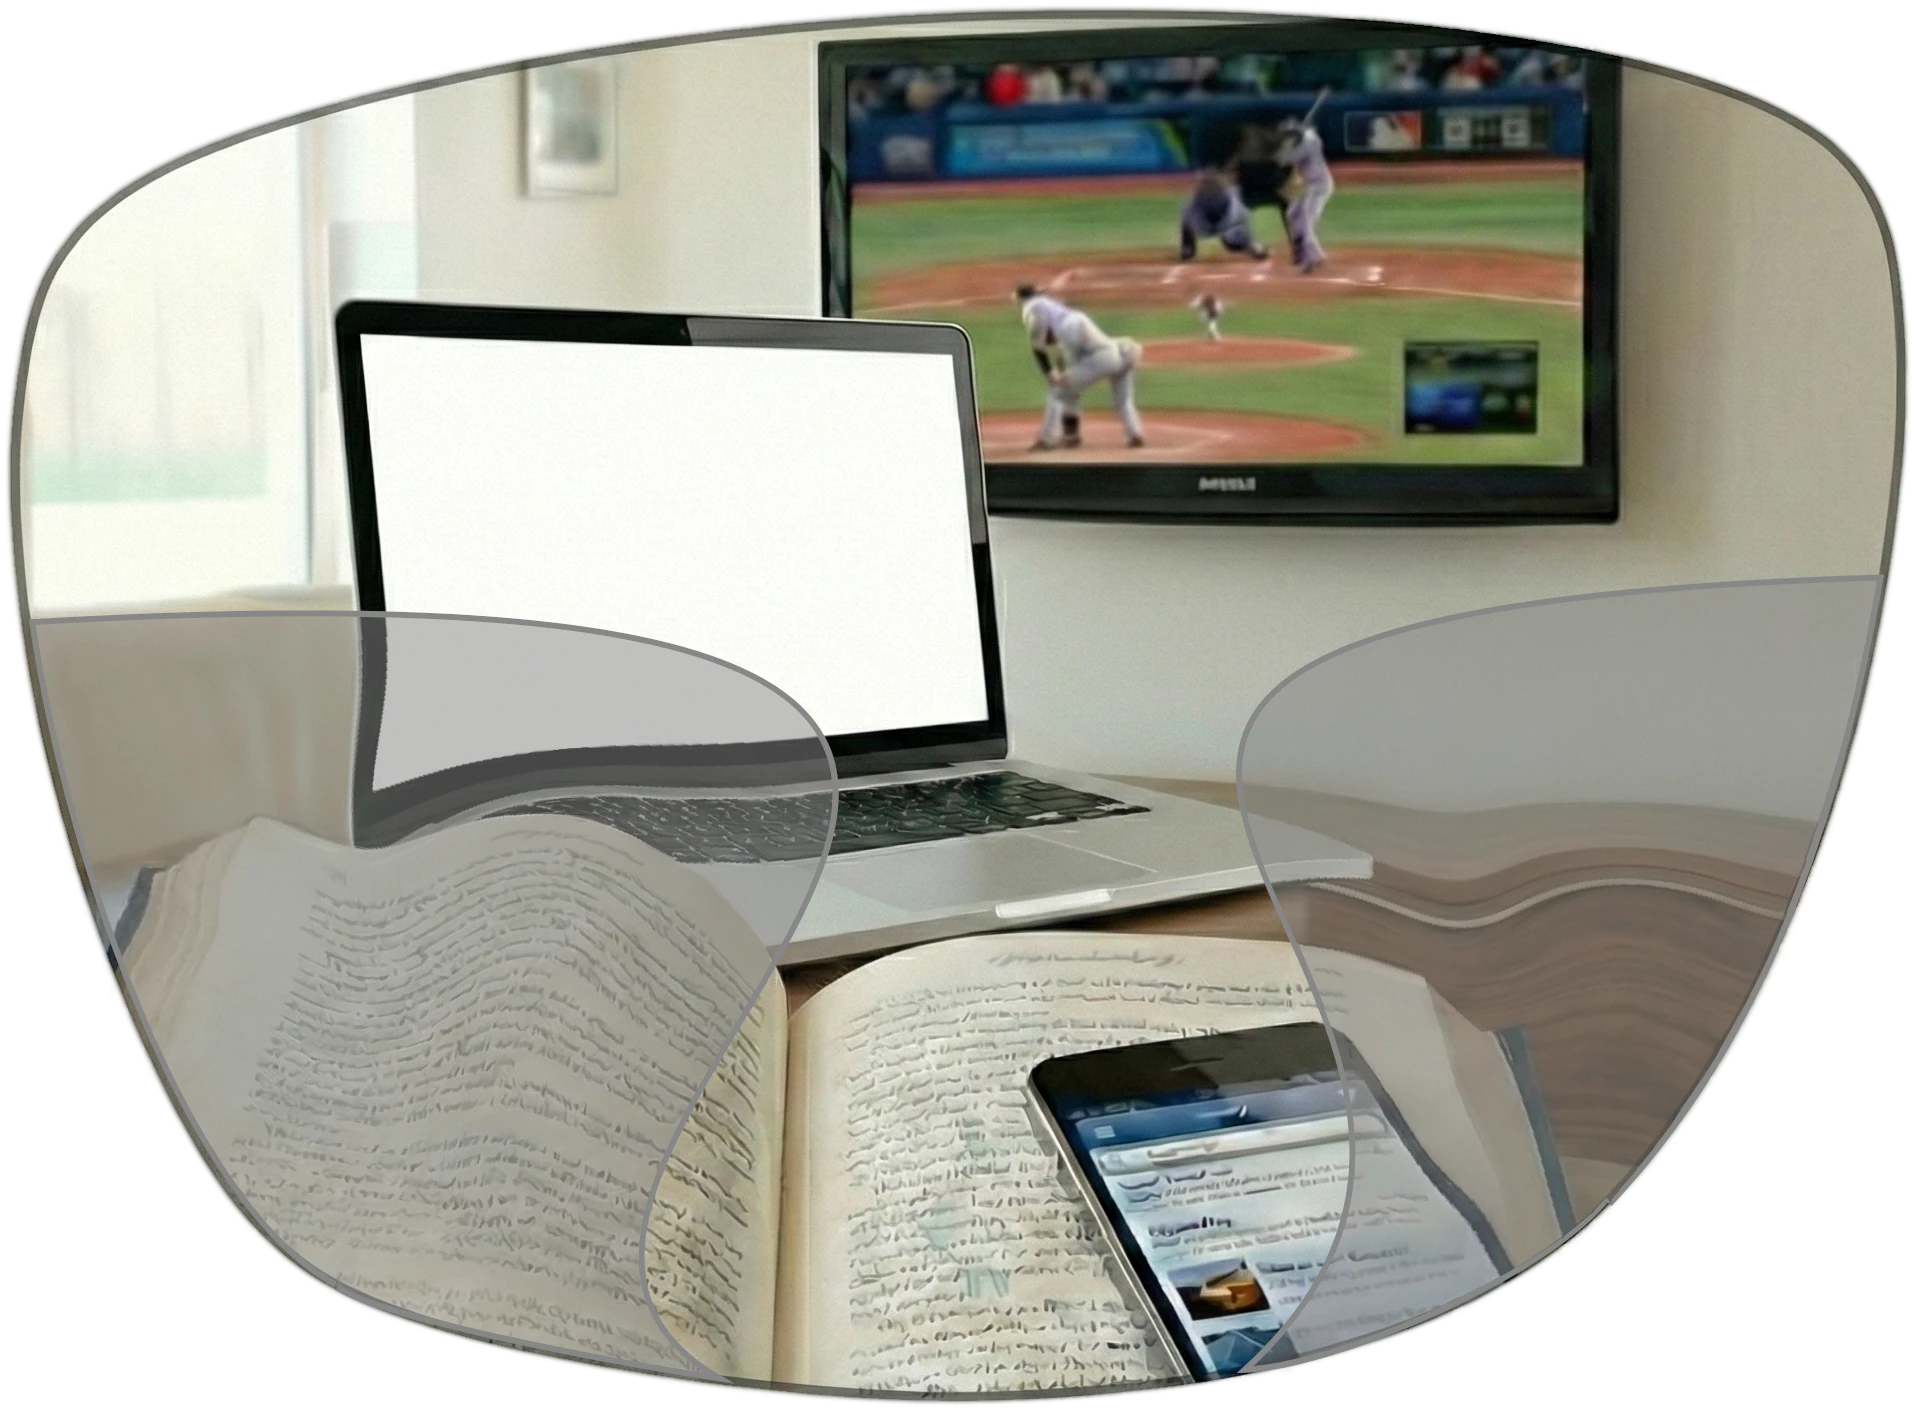
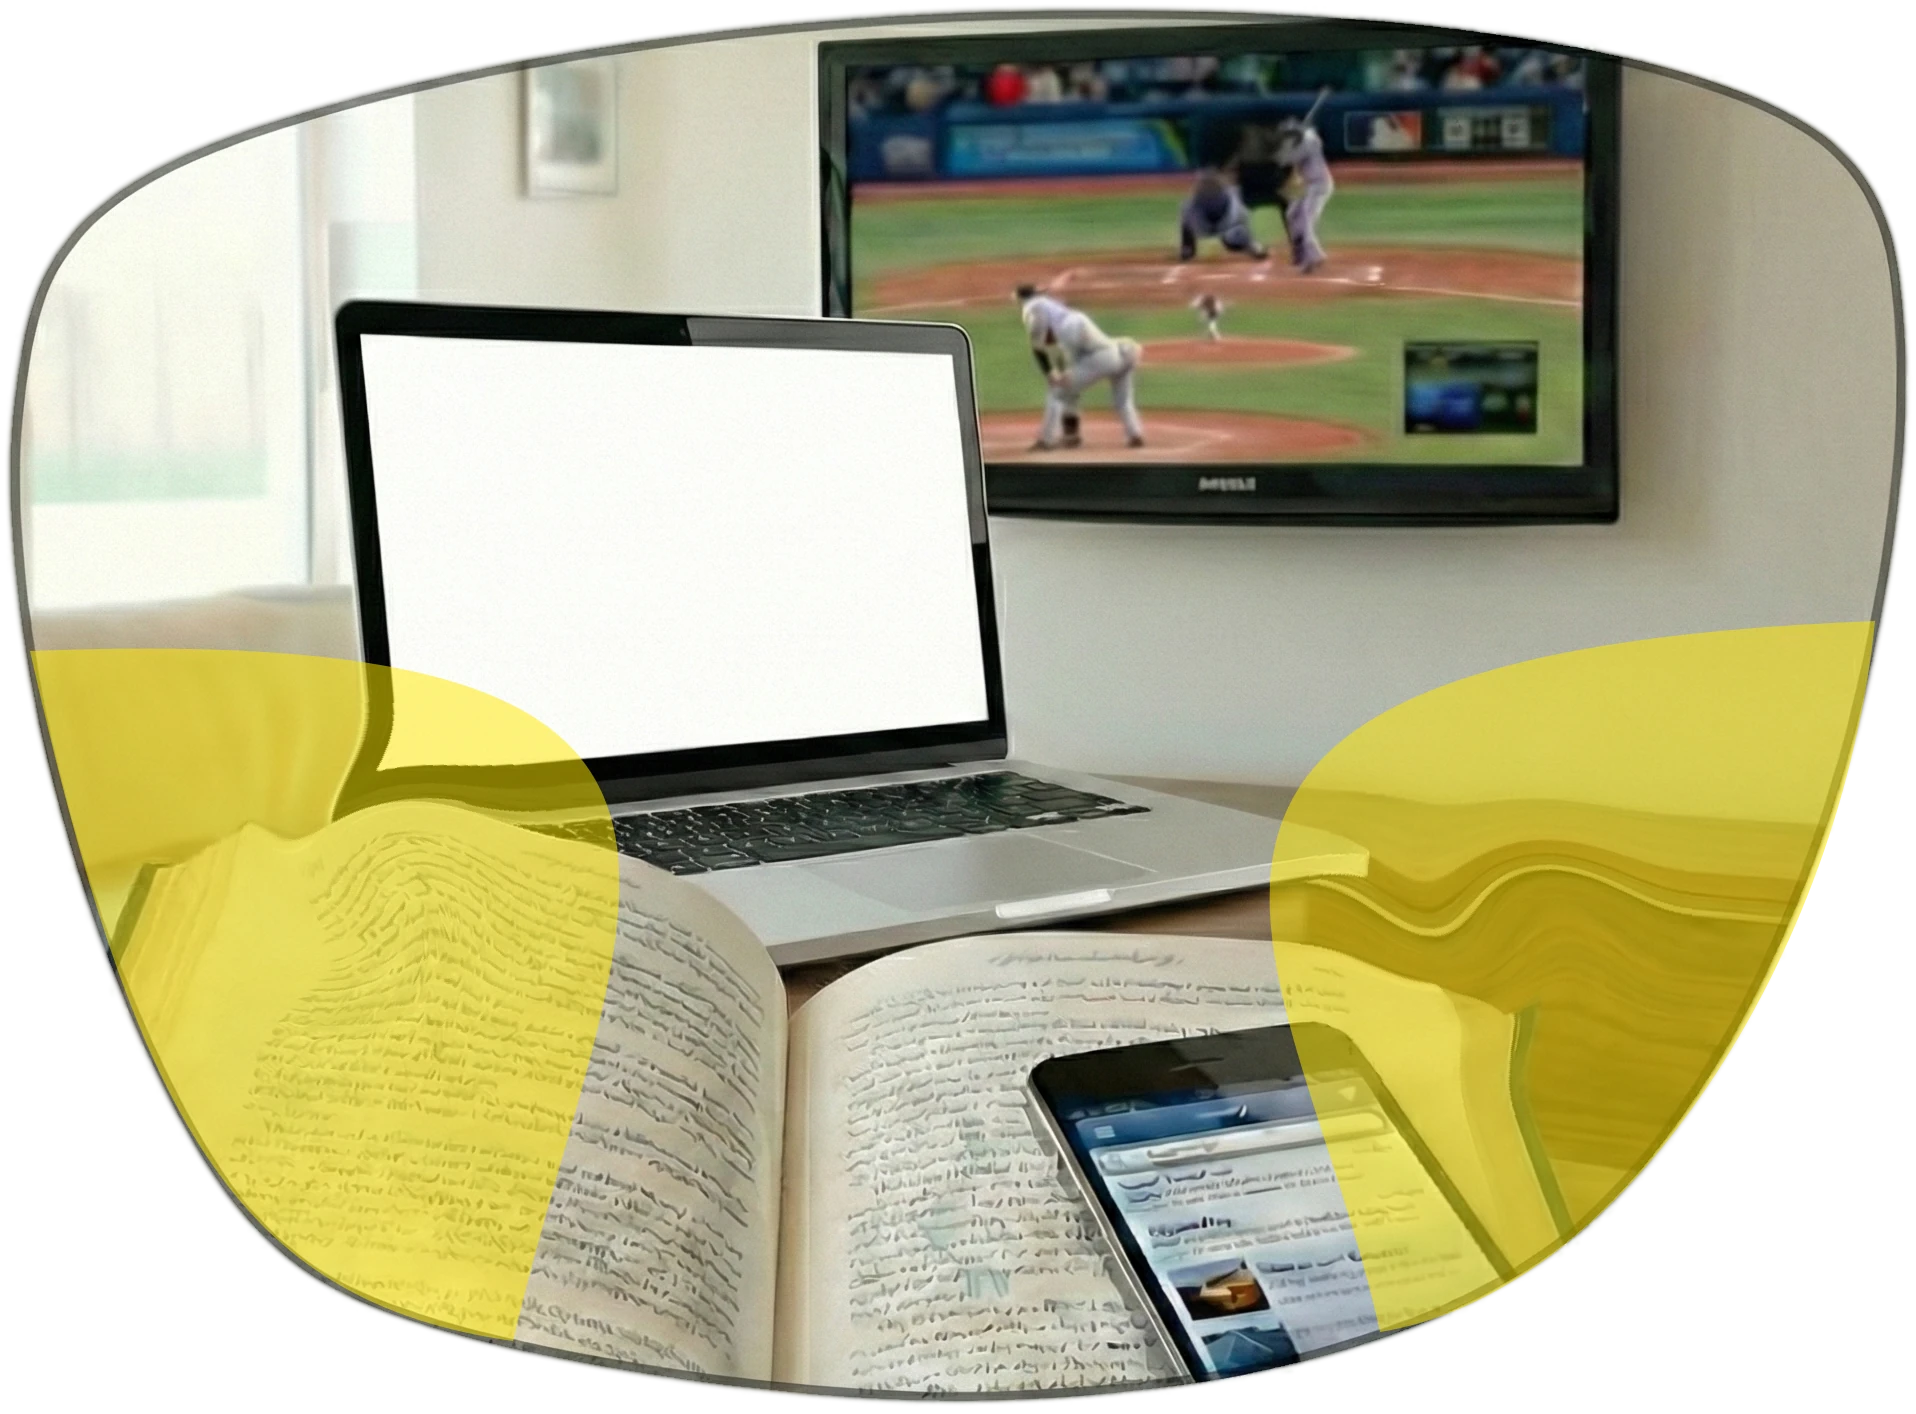
19-02-2026 21:10

Changed region(s): [[0.0, 0.4045, 0.4619, 0.9958], [0.6467, 0.4045, 0.9854, 0.9958]]

diff --git a/components/educational/LensDiagram.tsx b/components/educational/LensDiagram.tsx
@@ -25,7 +25,7 @@ const zones: Zone[] = [
         shortLabel: "Longe",
         description: "Ideal para dirigir, assistir TV e apreciar paisagens.",
         icon: Eye,
-        color: "bg-primary",
+        color: "bg-secondary",
         position: "top-0 h-1/3",
     },
     {
@@ -34,7 +34,7 @@ const zones: Zone[] = [
         shortLabel: "Intermediária",
         description: "Perfeita para computador, conversas e painel do carro.",
         icon: Monitor,
-        color: "bg-gray-400",
+        color: "bg-secondary",
         position: "top-1/3 h-1/3",
     },
     {
@@ -81,23 +81,40 @@ export function LensDiagram() {
                         transition={{ duration: 0.8 }}
                         className="relative"
                     >
-                        {/* Selector Buttons Overlay (Desktop only) or integrated (Mobile) */}
-                        <div className="flex flex-wrap justify-center gap-3 mb-8 lg:absolute lg:-top-4 lg:left-1/2 lg:-translate-x-1/2 lg:z-30 w-full lg:w-max">
-                            {zones.map((zone) => (
-                                <button
-                                    key={zone.id}
-                                    onClick={() => setActiveZone(zone.id)}
-                                    className={cn(
-                                        "relative flex items-center gap-2 px-5 py-2.5 rounded-full transition-all duration-300 font-bold text-xs uppercase tracking-wider",
-                                        activeZone === zone.id
-                                            ? "bg-secondary text-primary shadow-lg shadow-secondary/20 scale-105"
-                                            : "glass-card text-muted-foreground hover:bg-secondary/10 hover:text-primary"
-                                    )}
-                                >
-                                    <zone.icon className="w-3.5 h-3.5" />
-                                    {zone.shortLabel}
-                                </button>
-                            ))}
+                        {/* Unified Segmented Control */}
+                        <div className="flex justify-center mb-8 lg:absolute lg:-top-6 lg:left-1/2 lg:-translate-x-1/2 lg:z-30 w-full lg:w-max px-4 lg:px-0">
+                            <div className="relative flex items-center p-1.5 bg-white/50 backdrop-blur-md rounded-full border border-primary/5 shadow-2xl shadow-primary/5">
+                                {/* Sliding Background Highlight */}
+                                <div className="absolute inset-y-1.5 left-1.5 right-1.5 flex pointer-events-none">
+                                    <motion.div
+                                        className="h-full bg-secondary rounded-full shadow-lg shadow-secondary/20"
+                                        animate={{
+                                            width: `${100 / zones.length}%`,
+                                            x: `${(zones.indexOf(selectedZone)) * 100}%`
+                                        }}
+                                        transition={{ type: "spring", stiffness: 400, damping: 30 }}
+                                    />
+                                </div>
+
+                                {zones.map((zone) => (
+                                    <button
+                                        key={zone.id}
+                                        onClick={() => setActiveZone(zone.id)}
+                                        className={cn(
+                                            "relative z-10 flex items-center justify-center gap-2.5 px-6 py-2 rounded-full transition-colors duration-200 font-bold text-[11px] uppercase tracking-wider min-w-[120px]",
+                                            activeZone === zone.id
+                                                ? "text-primary"
+                                                : "text-muted-foreground hover:text-primary"
+                                        )}
+                                    >
+                                        <zone.icon className={cn(
+                                            "w-3.5 h-3.5 transition-transform duration-300",
+                                            activeZone === zone.id && "scale-110"
+                                        )} />
+                                        {zone.shortLabel}
+                                    </button>
+                                ))}
+                            </div>
                         </div>
 
                         <div className="relative w-full max-w-md mx-auto aspect-square flex items-center justify-center p-8 rounded-3xl overflow-hidden ">

diff --git a/components/educational/RefractionIndex.tsx b/components/educational/RefractionIndex.tsx
@@ -63,7 +63,7 @@ export function RefractionIndex() {
                 <div className="relative flex flex-col items-center">
 
                     {/* Top: Lens Preview Container */}
-                    <div className="relative w-full max-w-4xl aspect-video md:aspect-[21/9] overflow-hidden glass-panel group">
+                    <div className="relative w-full max-w-4xl aspect-video overflow-hidden glass-panel group">
                         <AnimatePresence mode="wait">
                             <motion.div
                                 key={selected.value}
@@ -71,7 +71,7 @@ export function RefractionIndex() {
                                 animate={{ opacity: 1, scale: 1, filter: "blur(0)" }}
                                 exit={{ opacity: 0, scale: 1.05, filter: "blur(20px)" }}
                                 transition={{ duration: 0.5, ease: "circOut" }}
-                                className="relative w-full h-full bg-transparent"
+                                className="relative w-full h-full"
                             >
                                 <Image
                                     src={selected.image}
@@ -114,7 +114,7 @@ export function RefractionIndex() {
 
                                     <div className="flex flex-wrap justify-center gap-1">
                                         {selected.features.map((feature, idx) => (
-                                            <div key={idx} className="flex items-center gap-2 bg-white/50 backdrop-blur-sm px-4 py-2 rounded-full border border-primary/5 shadow-sm">
+                                            <div key={idx} className="flex items-center gap-2 px-4 py-2">
                                                 <CheckCircle2 className="w-3.5 h-3.5 text-secondary shrink-0" />
                                                 <span className="text-[9px] sm:text-[10px] font-black text-primary/80 uppercase tracking-widest leading-none pt-0.5">{feature}</span>
                                             </div>

diff --git a/components/educational/ProductLines.tsx b/components/educational/ProductLines.tsx
@@ -159,9 +159,9 @@ export function ProductLines() {
             <Container className="flex-1 flex flex-col">
                 <div className="mb-8 text-center">
                     <h2 className="text-3xl md:text-4xl font-extrabold tracking-tight text-primary mb-2 italic">
-                        Lentes <span className="text-secondary">Multifocais</span>
+                        Lentes <span className="text-secondary">Multifocais</span> Vizz
                     </h2>
-                    <p className="text-muted-foreground text-sm font-medium">Conforto para todas as necessidades</p>
+                    <p className="text-muted-foreground text-sm font-medium">Descubra qual o campo de visão ideal para você</p>
                 </div>
 
                 {/* Top Navigation - Horizontal Buttons */}

diff --git a/components/ContactSection.tsx b/components/ContactSection.tsx
@@ -18,7 +18,7 @@ export function ContactSection() {
                             </p>
                         </div>
 
-                        <div className="md:flex items-center justify-center space-y-8 gap-20">
+                        <div className="md:flex md:items-start justify-center space-y-8 md:space-y-0 gap-12 lg:gap-24">
                             {/* Address */}
                             <div className="flex gap-4">
                                 <div className="w-12 h-12 rounded-lg bg-muted flex items-center justify-center text-primary shrink-0 group-hover:bg-secondary transition-colors">
